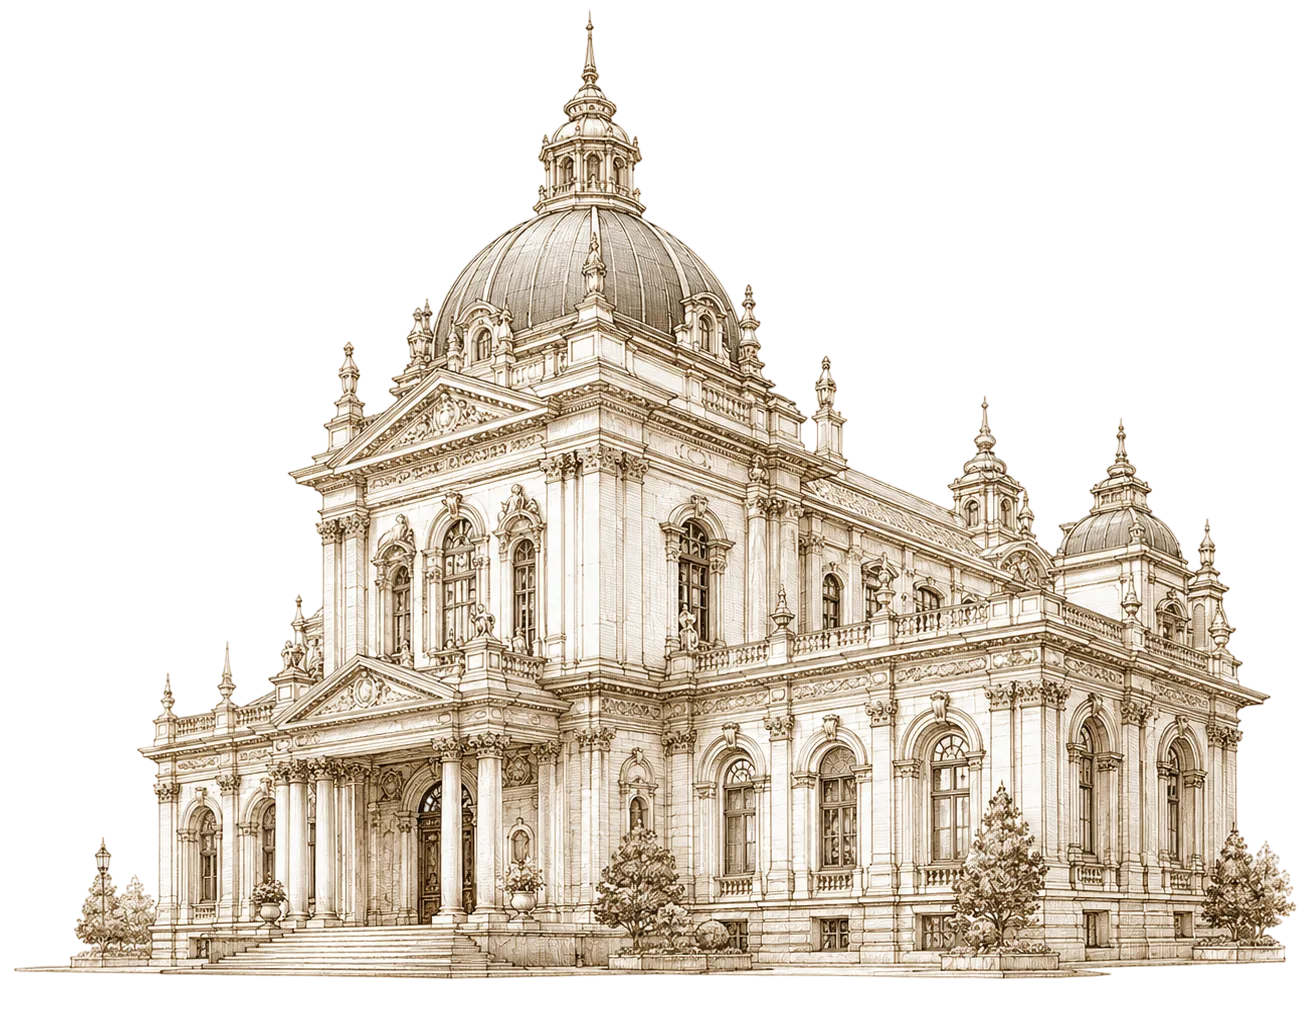
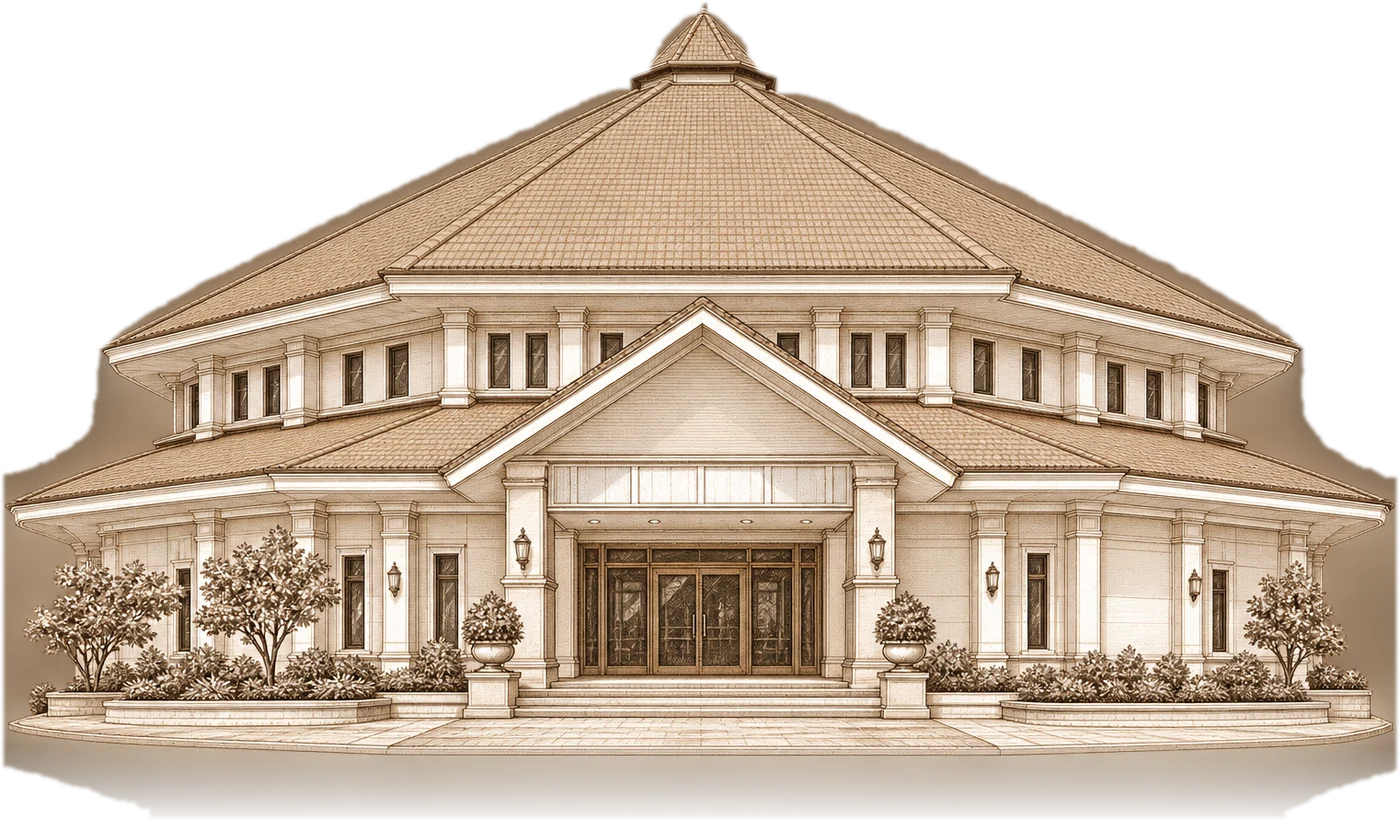
Use a rendering of the real venue
The supplied render sits on a dark radial vignette, which would read as a
heavy rectangle on the parchment card. tools/make_venue.py mattes the
building out, erodes the boundary so the vignette does not survive as a
grubby outline, and fades the plaza into the paper.

venue.webp is left out of prepare_assets.py on purpose: staging the
template's castle art again would overwrite the real venue.

diff --git a/tools/make_venue.py b/tools/make_venue.py
@@ -1,0 +1,73 @@
+"""Cut the venue rendering out of its dark ground for the cream card.
+
+The source is a sepia architectural rendering sitting on a radial vignette —
+near-black at the top corners, mid-tan at the bottom. Dropped straight onto the
+parchment card that dark ground would read as a heavy rectangle, so the
+building is matted out and the plaza is faded into the paper instead of ending
+on a hard edge.
+
+    python tools/make_venue.py "path/to/render.png"
+"""
+import os
+import sys
+
+import numpy as np
+from PIL import Image
+from scipy import ndimage
+
+ROOT = os.path.dirname(os.path.dirname(os.path.abspath(__file__)))
+OUT = os.path.join(ROOT, 'assets', 'img', 'venue.webp')
+
+# the building and plaza sit well above the vignette; 115 splits them cleanly
+CUT = 115
+FADE = 90          # rows of plaza that dissolve into the card
+
+
+def main() -> None:
+    if len(sys.argv) < 2:
+        sys.exit(__doc__)
+    src = sys.argv[1]
+    if not os.path.exists(src):
+        sys.exit(f'source not found: {src}')
+
+    rgb = np.asarray(Image.open(src).convert('RGB')).astype(np.float32)
+    lum = rgb[..., 0] * .299 + rgb[..., 1] * .587 + rgb[..., 2] * .114
+
+    # solid silhouette: threshold, close the gaps the line work opens, then
+    # fill so the dark windows and doors stay opaque
+    solid = lum > CUT
+    solid = ndimage.binary_closing(solid, np.ones((9, 9)), iterations=2)
+    solid = ndimage.binary_fill_holes(solid)
+    lab, n = ndimage.label(solid)
+    if n > 1:
+        sizes = ndimage.sum(solid, lab, range(1, n + 1))
+        solid = lab == (1 + int(np.argmax(sizes)))
+
+    # pull the boundary in a few pixels: the vignette immediately outside the
+    # building is dark, and left in it reads as a grubby outline on cream
+    solid = ndimage.binary_erosion(solid, np.ones((3, 3)), iterations=3)
+    alpha = ndimage.gaussian_filter(solid.astype(np.float32), 1.8)
+
+    # let the plaza melt into the paper rather than stopping on a cut line
+    h = alpha.shape[0]
+    ramp = np.ones(h, np.float32)
+    ramp[h - FADE:] = np.linspace(1, 0, FADE, dtype=np.float32)
+    alpha *= ramp[:, None]
+
+    ys, xs = np.where(alpha > 0.02)
+    y0, y1, x0, x1 = ys.min(), ys.max() + 1, xs.min(), xs.max() + 1
+    rgb, alpha = rgb[y0:y1, x0:x1], alpha[y0:y1, x0:x1]
+
+    buf = np.zeros((*alpha.shape, 4), np.uint8)
+    buf[..., :3] = np.clip(rgb, 0, 255).astype(np.uint8)
+    buf[..., 3] = np.clip(alpha * 255, 0, 255).astype(np.uint8)
+
+    im = Image.fromarray(buf, 'RGBA')
+    if im.size[0] > 1400:
+        im = im.resize((1400, round(1400 * im.size[1] / im.size[0])), Image.LANCZOS)
+    im.save(OUT, quality=88, method=6)
+    print(f'  wrote {os.path.relpath(OUT, ROOT)}  {im.size[0]}x{im.size[1]}')
+
+
+if __name__ == '__main__':
+    main()

diff --git a/tools/prepare_assets.py b/tools/prepare_assets.py
@@ -8,6 +8,9 @@ Sources
 
 Typefaces are not copied: every face the template uses is on Google Fonts and
 is linked from the stylesheet instead.
+
+venue.webp is deliberately NOT staged here — it is a rendering of the real
+venue, cut out by tools/make_venue.py. Re-adding it to COPY would clobber it.
 """
 import os
 import shutil
@@ -27,7 +30,6 @@ COPY = {
     'envelope-cover.webp':      'envelope-flap.webp',
     'flower2-decoration.webp':  'floral-spray.webp',
     'paper.webp':               'paper.webp',
-    'castle-background.webp':   'venue.webp',
     'cake.webp':                'icon-cake.webp',
     'minimalism_darkred.webp':  'gift.webp',
 }

diff --git a/README.md b/README.md
@@ -123,11 +123,22 @@ a form service, or your own API.
 
 ## Artwork
 
-The burgundy envelope, floral spray, paper stock, venue engraving and icons
-come from the ChungDoi *Minimalism Dark Red* template, staged from a local
-download with `python tools/prepare_assets.py` (set `CHUNGDOI_DIR` if the
-folder moved). **Check your licence with ChungDoi before publishing this
-publicly** — a GitHub Pages site is public.
+The burgundy envelope, floral spray, paper stock and icons come from the
+ChungDoi *Minimalism Dark Red* template, staged from a local download with
+`python tools/prepare_assets.py` (set `CHUNGDOI_DIR` if the folder moved).
+**Check your licence with ChungDoi before publishing this publicly** — a
+GitHub Pages site is public.
+
+`venue.webp` is a rendering of the real venue, not template art. It arrives on
+a dark vignette, so `tools/make_venue.py` mattes the building out and fades the
+plaza into the paper:
+
+```sh
+python tools/make_venue.py "path/to/render.png"
+```
+
+It is left out of `prepare_assets.py` on purpose — staging it from the template
+folder again would overwrite the real venue.
 
 Typefaces — Alex Brush, Cormorant Garamond, Playfair Display and Amiri — are
 loaded from Google Fonts, so no font files are redistributed here.
